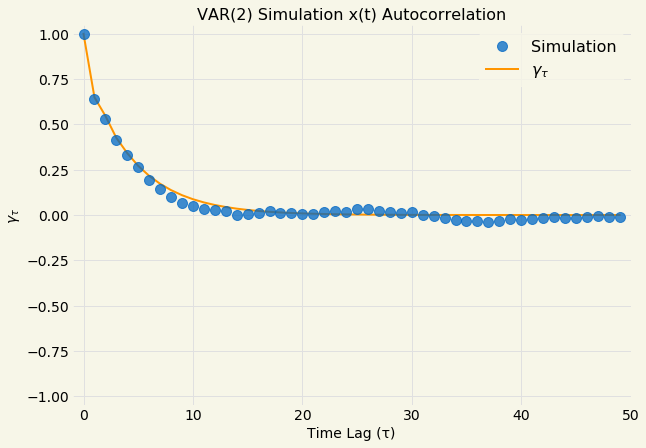
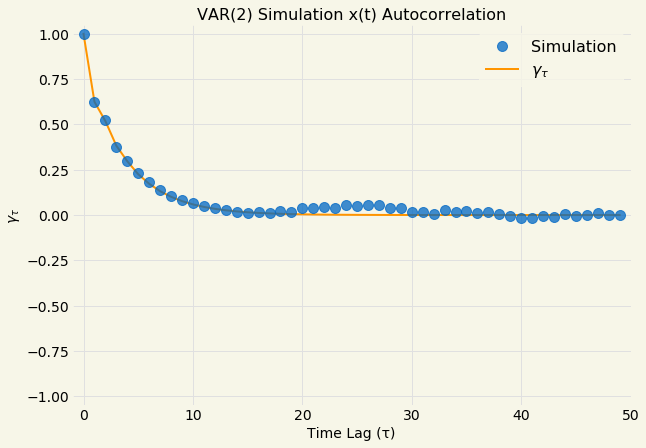
fixed bug in autocorelation calculation

Changed region(s): [[0.1548, 0.25, 0.9907, 0.5312], [0.1238, 0.125, 0.1548, 0.25]]

diff --git a/hydrogen_notebooks/algorithmic_trading/mean_reversion/vector_autoregression_simulations.py b/hydrogen_notebooks/algorithmic_trading/mean_reversion/vector_autoregression_simulations.py
@@ -530,27 +530,3 @@ plot_name = "var_2_simulation_1_yx_autocorrelation"
 γt = [Σt[i, 1, 0] for i in range(l)]
 
 cross_correlation_plot(title, xt[1], xt[0], γt, plot_name)
-
-# %%
-
-l = 50
-ω = numpy.matrix([[1.0, 0.0], [0.0, 1.0]])
-φ = numpy.array([
-        numpy.matrix([[0.5, 0.1],
-                      [0.1, 0.1]]),
-        numpy.matrix([[0.2, 0.05],
-                     [0.05, 0.1]])
-])
-Σt = stationary_autocovariance_matrix(φ, ω, l)
-
-x0 = numpy.array([[0.0, 1.0], [0.0, 1.0]])
-n = 5000
-xt = var_simulate(x0, μ, φ, ω, n)
-
-# %%
-
-title = f"VAR(2) Simulation x(t) Autocorrelation"
-plot_name = "var_2_simulation_2_x_autocorrelation"
-γt = [Σt[i, 0, 0] for i in range(l)] / Σt[0, 0, 0]
-
-autocorrelation_plot(title, xt[0], γt, plot_name)
